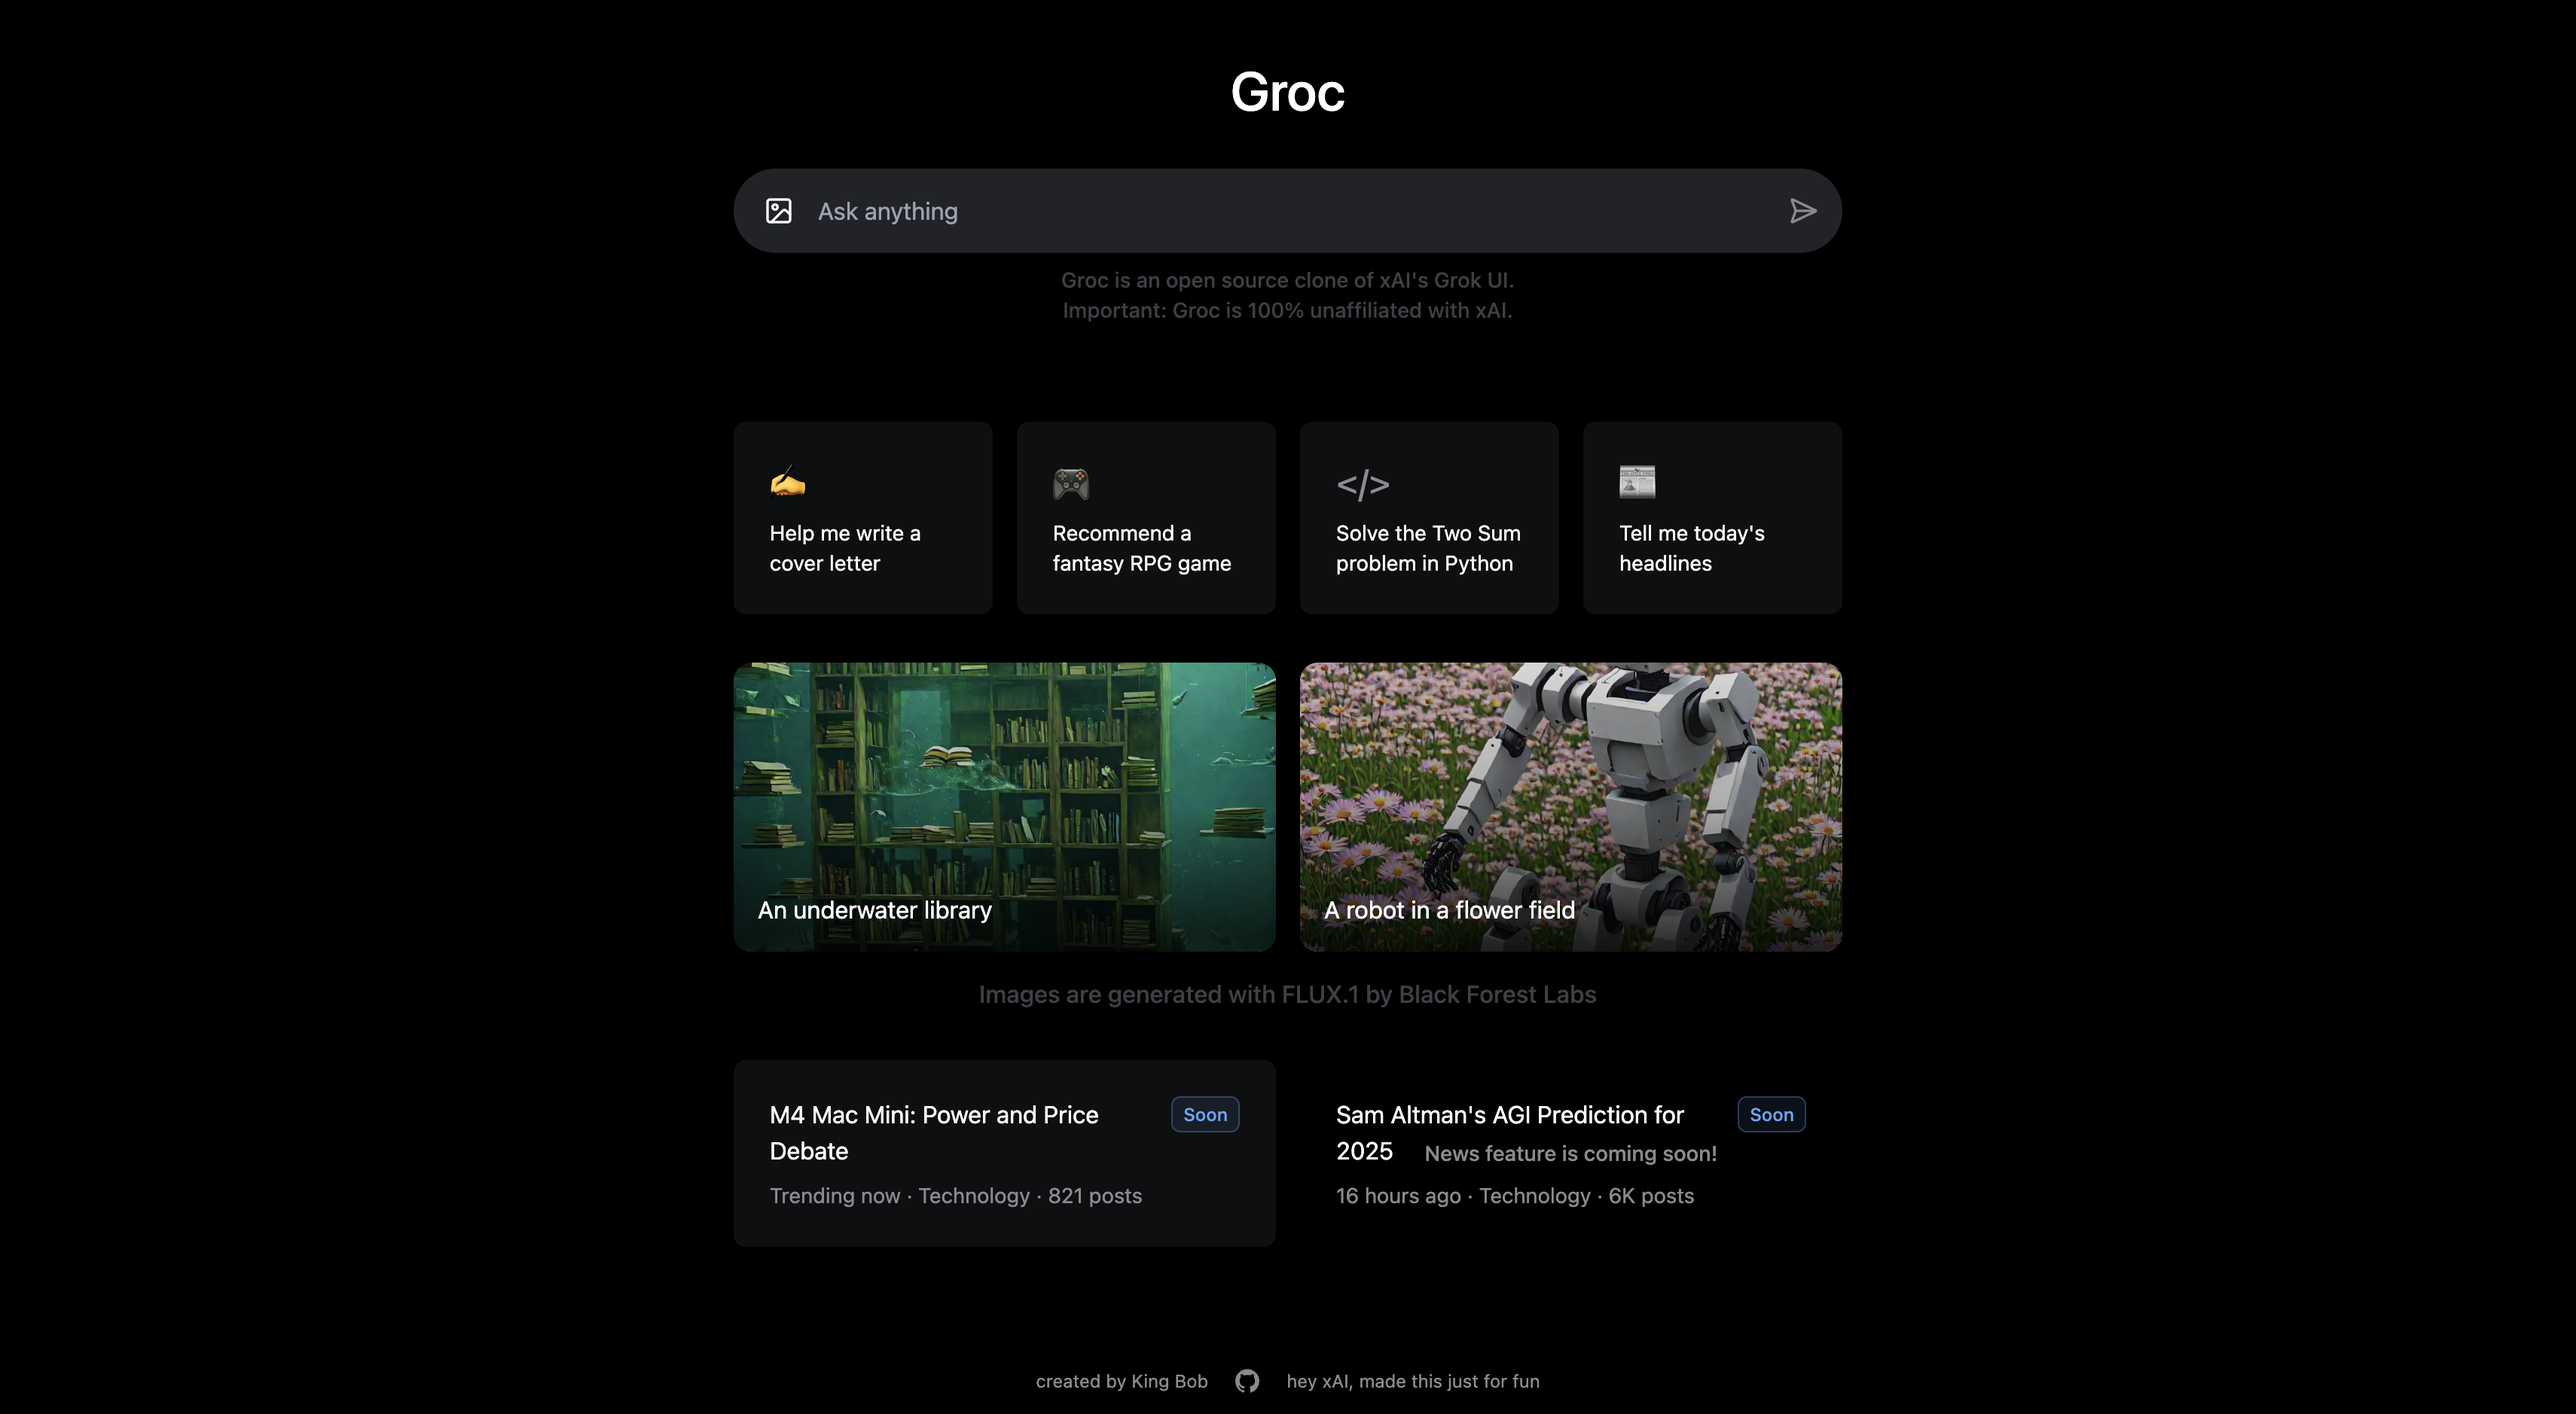
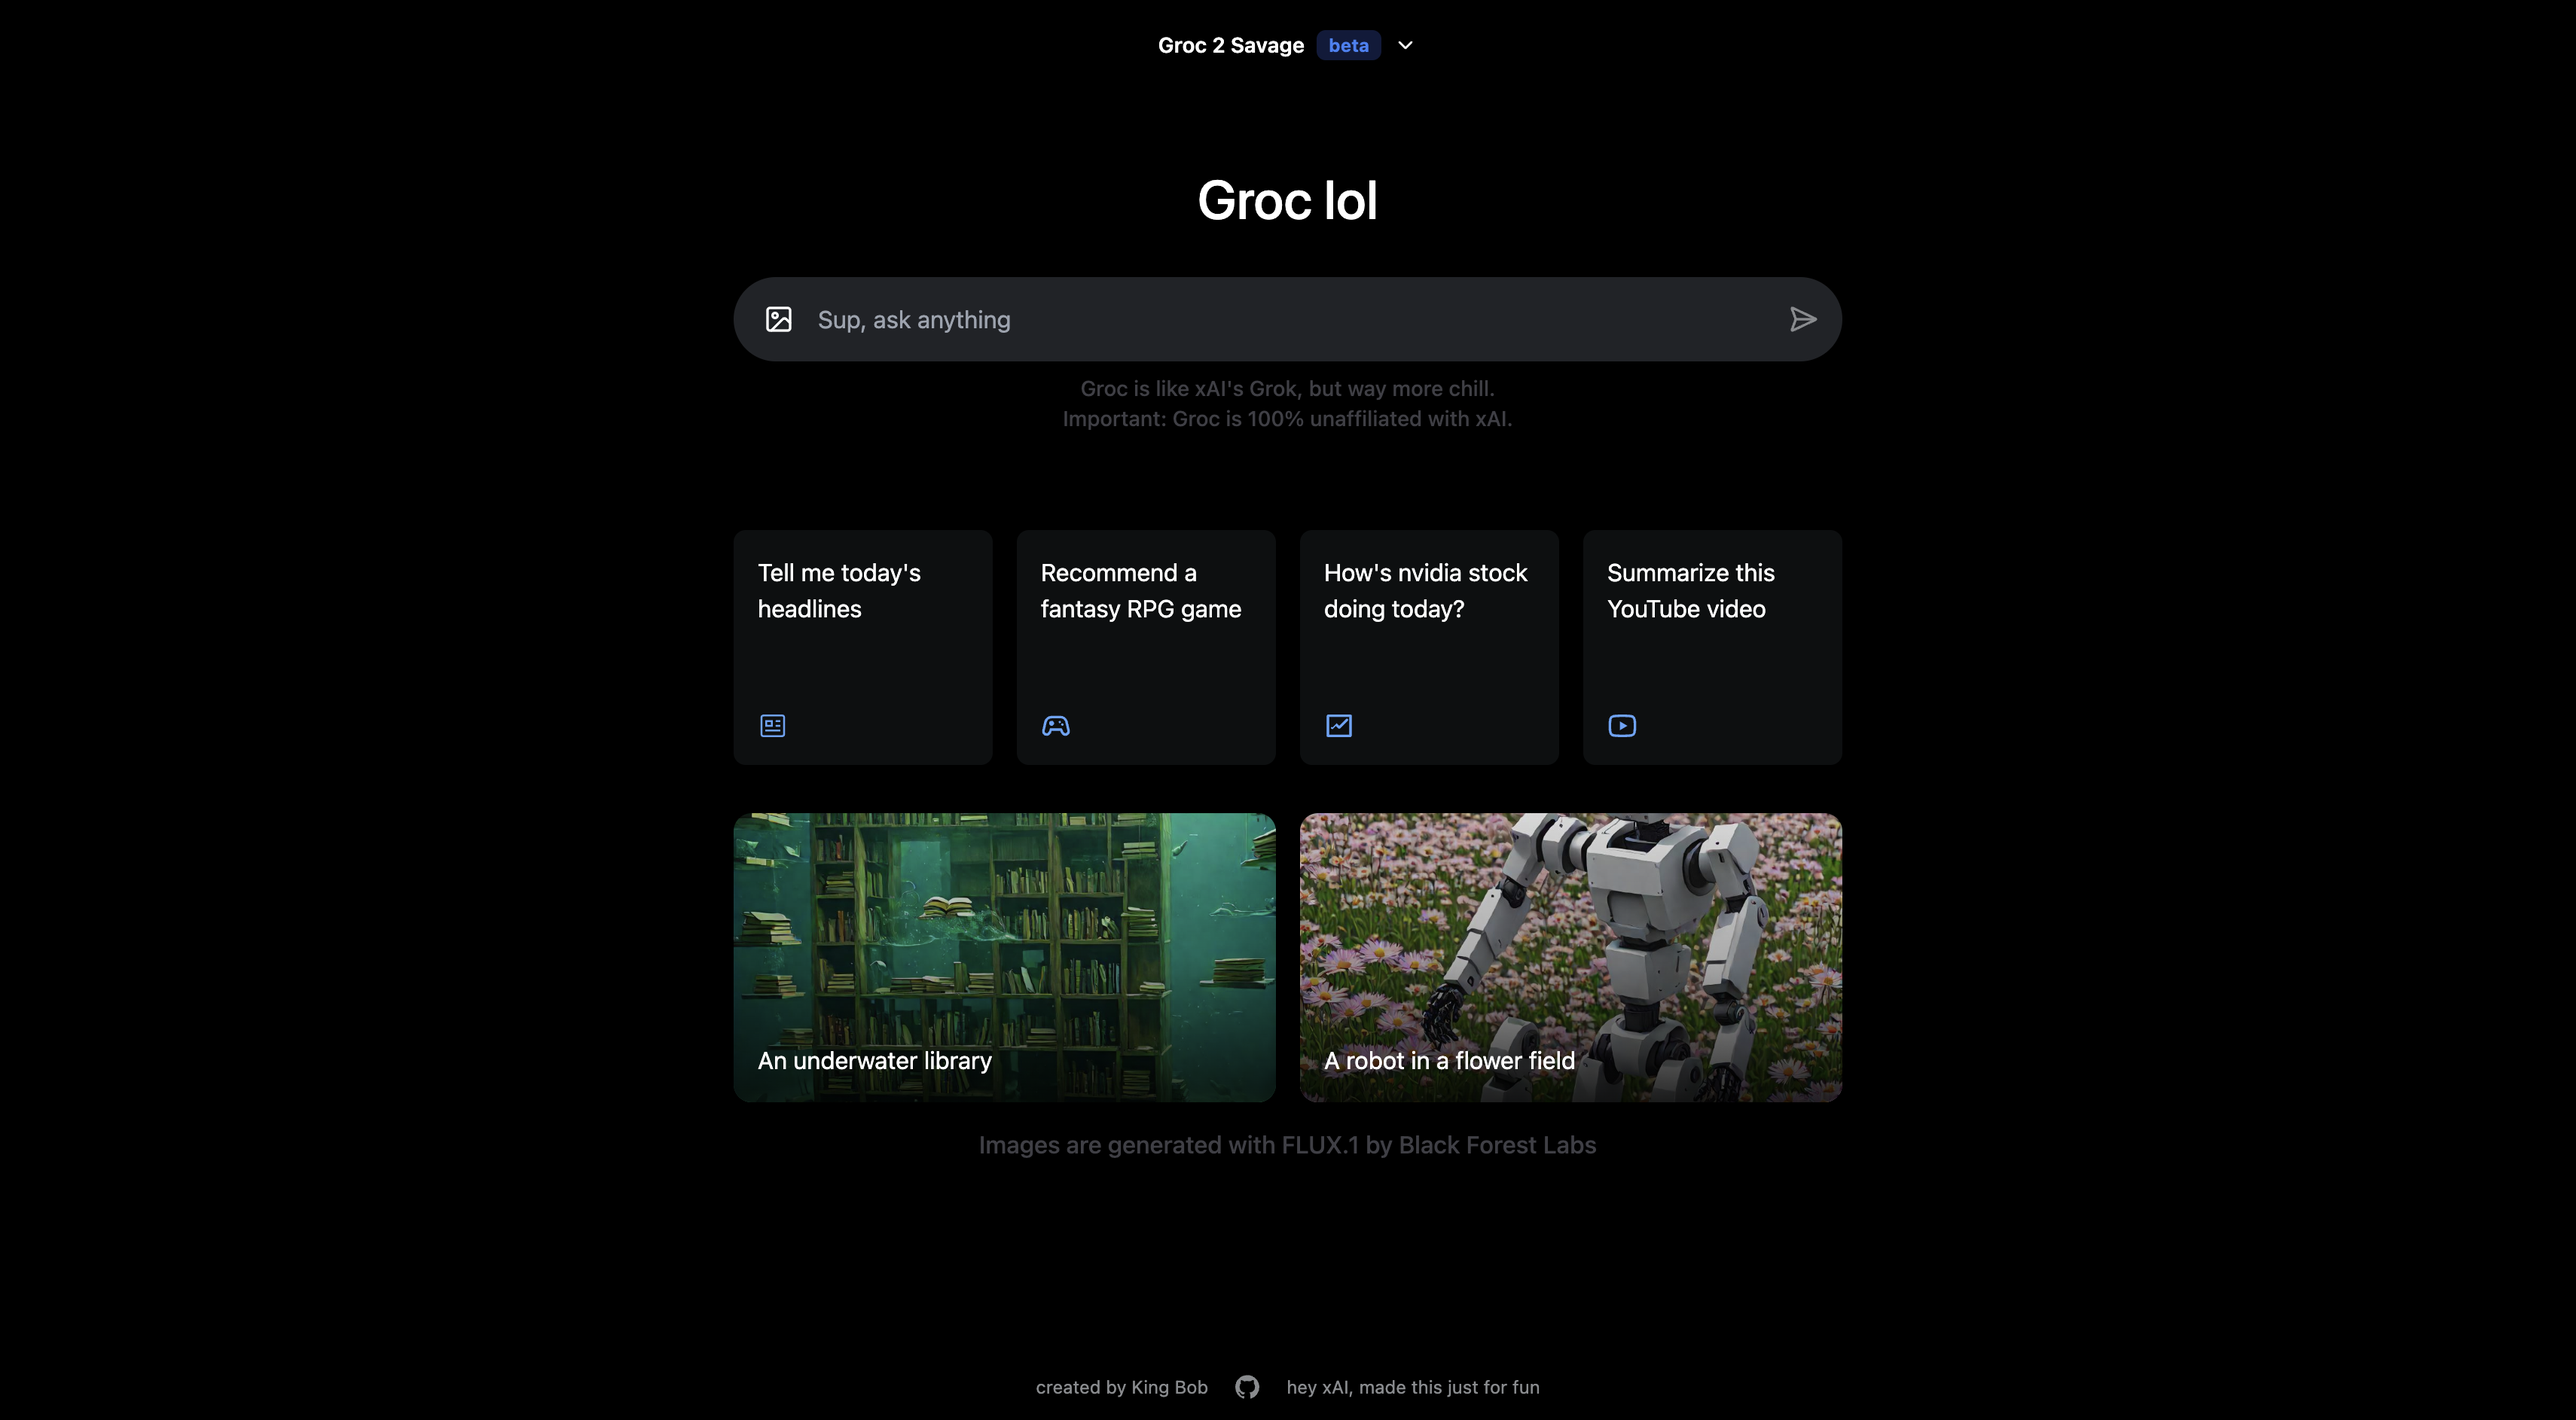
preview image

diff --git a/README.md b/README.md
@@ -1,6 +1,6 @@
 # Groc.lol - xAI's Grok clone
 
-This is an open source clone of xAI's Grok, but way more chill.
+This is an open source clone of xAI's Grok.
 Made this just for fun. Don't sue me xAI. I love You.
 
 **Important:** Groc is 100% unaffiliated with xAI.
